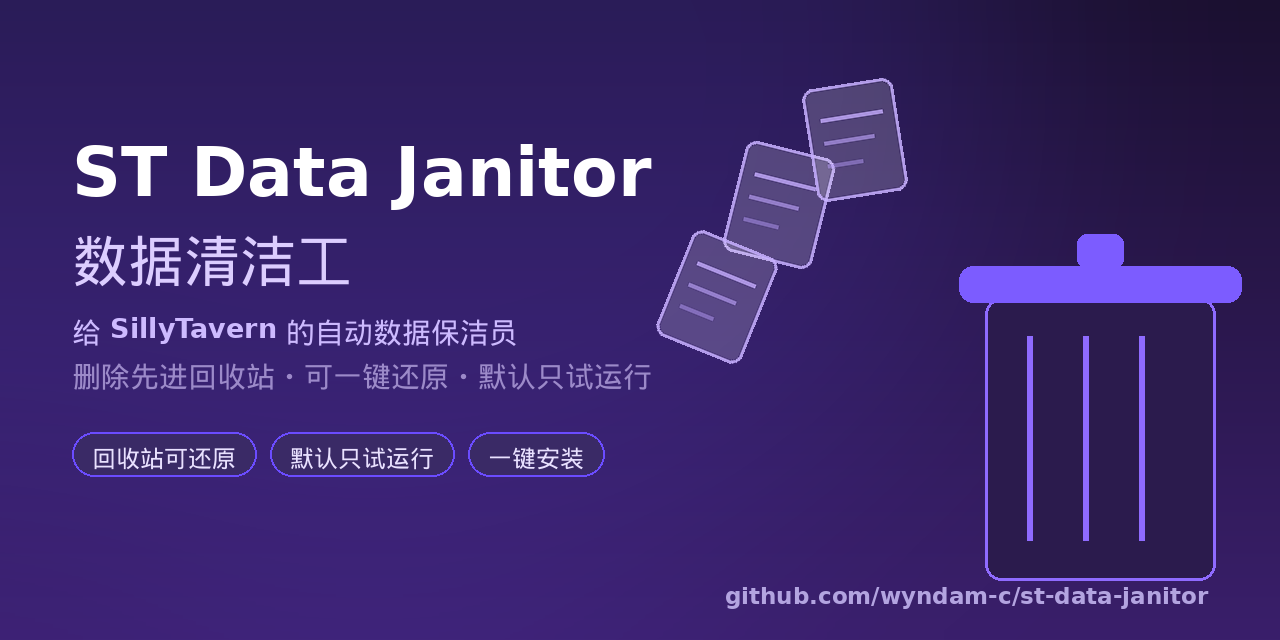
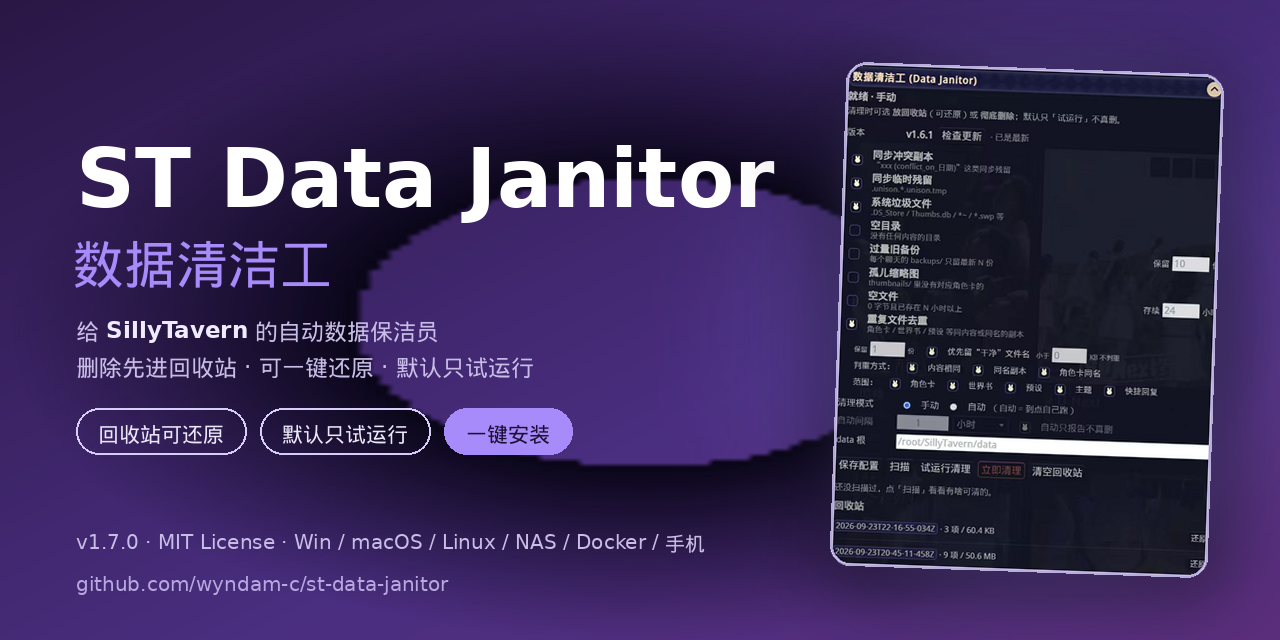
docs(assets): 重做 GitHub 链接卡片图（1280x640，真实面板截图）+ 留下生成脚本 tools/make-social-preview.py

diff --git a/tools/make-social-preview.py b/tools/make-social-preview.py
@@ -1,0 +1,196 @@
+#!/usr/bin/env python3
+# -*- coding: utf-8 -*-
+"""
+生成 GitHub「Social preview（链接卡片图）」：1280x640，深紫底 + 白色标题 + 真实面板截图。
+只需要 Pillow：  pip install pillow
+用法：  python3 tools/make-social-preview.py
+输出：  assets/social-1280x640.png
+
+⚠ 坑：DroidSansFallbackFull（中文字体）没有拉丁字形，直接拿它画英文会出豆腐块；
+   所以所有文字都走 auto_runs() 按「中文 / 拉丁」切段混排。
+"""
+import math
+import os
+import re
+
+from PIL import Image, ImageDraw, ImageFilter, ImageFont
+
+W, H = 1280, 640
+ROOT = os.path.dirname(os.path.dirname(os.path.abspath(__file__)))
+SHOT = os.path.join(ROOT, 'assets', 'screenshot-panel.jpg')
+OUT = os.path.join(ROOT, 'assets', 'social-1280x640.png')
+
+LATIN_BOLD = '/usr/share/fonts/truetype/dejavu/DejaVuSans-Bold.ttf'
+LATIN = '/usr/share/fonts/truetype/dejavu/DejaVuSans.ttf'
+CJK = '/usr/share/fonts/truetype/droid/DroidSansFallbackFull.ttf'
+
+VIOLET = (139, 123, 234)
+VIOLET_L = (167, 139, 250)
+DIM = (200, 189, 230)
+LIGHT = (236, 232, 250)
+LINK = (185, 167, 224)
+
+CJK_RE = re.compile(r'[\u2e80-\u9fff\u3000-\u303f\uff00-\uffef]')
+
+
+def is_cjk(ch):
+    return bool(CJK_RE.match(ch))
+
+
+def auto_runs(text):
+    """把字符串按「中文 / 拉丁」切成段，避免用中文字体画英文（会豆腐块）"""
+    runs, buf, cur = [], '', None
+    for ch in text:
+        k = is_cjk(ch)
+        if cur is None or k == cur:
+            buf += ch
+        else:
+            runs.append((buf, cur))
+            buf = ch
+        cur = k
+    if buf:
+        runs.append((buf, cur))
+    return runs
+
+
+def font(path, size):
+    return ImageFont.truetype(path, size)
+
+
+def mixed(d, xy, text, size, fill, latin_bold=False):
+    """混排绘制一段文字，返回结束时的 x"""
+    x, y = xy
+    lf = font(LATIN_BOLD if latin_bold else LATIN, size)
+    cf = font(CJK, size)
+    for part, cjk in auto_runs(text):
+        f = cf if cjk else lf
+        d.text((x, y), part, font=f, fill=fill)
+        x += d.textlength(part, font=f)
+    return x
+
+
+def mixed_width(d, text, size, latin_bold=False):
+    lf = font(LATIN_BOLD if latin_bold else LATIN, size)
+    cf = font(CJK, size)
+    return sum(d.textlength(p, font=(cf if c else lf)) for p, c in auto_runs(text))
+
+
+def lerp(a, b, t):
+    return tuple(round(a[i] + (b[i] - a[i]) * t) for i in range(len(a)))
+
+
+def bg_gradient():
+    """135° 对角渐变 #2A1745 → #4A2E80 → #5B2E7C（小图算完再放大，过渡更顺）"""
+    n = 256
+    small = Image.new('RGB', (n, n))
+    px = small.load()
+    c1, c2, c3 = (0x2A, 0x17, 0x45), (0x4A, 0x2E, 0x80), (0x5B, 0x2E, 0x7C)
+    for y in range(n):
+        for x in range(n):
+            t = (x + y) / (2 * (n - 1))
+            px[x, y] = lerp(c1, c2, t / 0.6) if t < 0.6 else lerp(c2, c3, (t - 0.6) / 0.4)
+    return small.resize((W, H), Image.BICUBIC)
+
+
+def radial(size, color, power=2.0, solid=0.0, scale=1.0):
+    """径向光斑（RGBA）"""
+    n = 128
+    img = Image.new('RGBA', (n, n), (0, 0, 0, 0))
+    px = img.load()
+    for y in range(n):
+        for x in range(n):
+            dx, dy = (x - n / 2) / (n / 2), (y - n / 2) / (n / 2)
+            d = min(1.0, math.hypot(dx, dy))
+            a = 0.0 if d <= solid else max(0.0, (1 - (d - solid) / (1 - solid))) ** power
+            px[x, y] = (color[0], color[1], color[2], round(255 * a * scale))
+    return img.resize(size, Image.BICUBIC)
+
+
+def main():
+    card = bg_gradient().convert('RGBA')
+
+    # 光晕：只堆在截图后面，别扫到左边文字区（否则文字对比度掉下来）
+    glow = radial((780, 780), VIOLET, power=1.5, scale=0.5)
+    card.alpha_composite(glow, (1030 - 390, 320 - 390))
+
+    # 暗角
+    card.alpha_composite(radial((W, H), (10, 6, 24), power=1.1, solid=0.45))
+
+    d = ImageDraw.Draw(card)
+    x = 76
+
+    # ── 左侧文字 ─────────────────────────────────────────────
+    d.text((x, 130), 'ST Data Janitor', font=font(LATIN_BOLD, 82), fill=(255, 255, 255))
+    d.text((x - 4, 228), '数据清洁工', font=font(CJK, 52), fill=VIOLET_L)
+
+    y = 316
+    end = mixed(d, (x, y), '给 ', 23, DIM)
+    end = mixed(d, (end, y), 'SillyTavern', 23, (240, 236, 253), latin_bold=True)
+    mixed(d, (end, y), ' 的自动数据保洁员', 23, DIM)
+
+    mixed(d, (x, 352), '删除先进回收站 · 可一键还原 · 默认只试运行', 23, DIM)
+
+    # 胶囊标签（最后一个实底，当 CTA）
+    py, ph = 408, 46
+    px = x
+    for i, label in enumerate(('回收站可还原', '默认只试运行', '一键安装')):
+        f = font(CJK, 21)
+        tw = d.textlength(label, font=f)
+        solid = i == 2
+        d.rounded_rectangle([px, py, px + tw + 44, py + ph], radius=ph // 2,
+                            fill=VIOLET_L if solid else None,
+                            outline=None if solid else (214, 206, 248, 190), width=2)
+        d.text((px + 22, py + 12), label, font=f, fill=(28, 17, 51) if solid else LIGHT)
+        px += tw + 44 + 14
+
+    # 底部两行（左下，离截图留足距离）
+    mixed(d, (x, 530), 'v1.7.0 · MIT License · Win / macOS / Linux / NAS / Docker / 手机',
+          20, DIM)
+    d.text((x, 572), 'github.com/wyndam-c/st-data-janitor', font=font(LATIN, 20), fill=LINK)
+
+    # ── 右侧：真实面板截图 ───────────────────────────────────
+    shot = Image.open(SHOT).convert('RGB')
+    shot = shot.crop((0, 0, shot.width - 10, shot.height))    # 裁掉右边的滚动条细线
+    h = 500
+    w = round(shot.width * h / shot.height)                    # ≈373
+    shot = shot.resize((w, h), Image.LANCZOS)
+
+    mask = Image.new('L', (w, h), 0)
+    ImageDraw.Draw(mask).rounded_rectangle([0, 0, w - 1, h - 1], radius=18, fill=255)
+
+    phone = Image.new('RGBA', (w + 4, h + 4), (0, 0, 0, 0))
+    phone.paste(shot, (2, 2), mask)
+    rr = Image.new('L', (w + 4, h + 4), 0)
+    ImageDraw.Draw(rr).rounded_rectangle([0, 0, w + 3, h + 3], radius=20, fill=255)
+    phone.putalpha(rr)
+    ImageDraw.Draw(phone).rounded_rectangle([0, 0, w + 3, h + 3], radius=20,
+                                           outline=(208, 199, 246, 215), width=3)
+
+    # 外发光 + 投影
+    halo = Image.new('RGBA', (w + 300, h + 300), (0, 0, 0, 0))
+    hd = ImageDraw.Draw(halo)
+    hd.rounded_rectangle([150, 150, 150 + w + 3, 150 + h + 3], radius=26,
+                         fill=(139, 123, 234, 120))
+    halo = halo.filter(ImageFilter.GaussianBlur(48))
+
+    shadow = Image.new('RGBA', (w + 300, h + 300), (0, 0, 0, 0))
+    ImageDraw.Draw(shadow).rounded_rectangle([150, 162, 150 + w + 3, 162 + h + 3],
+                                             radius=26, fill=(0, 0, 0, 150))
+    shadow = shadow.filter(ImageFilter.GaussianBlur(34))
+
+    cx, cy = 1027, 320
+    card.alpha_composite(shadow, (cx - shadow.width // 2, cy - shadow.height // 2))
+    card.alpha_composite(halo, (cx - halo.width // 2, cy - halo.height // 2))
+    phone = phone.rotate(-2, resample=Image.BICUBIC, expand=True)
+    card.alpha_composite(phone, (cx - phone.width // 2, cy - phone.height // 2))
+
+    out = card.convert('RGB')
+    out.save(OUT, optimize=True)
+    kb = os.path.getsize(OUT) / 1024
+    print('已生成 %s  %s  %.1f KB' % (OUT, out.size, kb))
+    if kb > 900:
+        print('⚠ 超过 GitHub 的 1MB 限制，得改用 JPEG')
+
+
+if __name__ == '__main__':
+    main()

diff --git a/CHANGELOG.md b/CHANGELOG.md
@@ -11,6 +11,7 @@
   **保活与开机自启**（`termux-wake-lock` / Termux:Boot / 常用别名）、更新与卸载、以及手机特有的坑（`/sdcard` 别放酒馆、
   32 位机报 `Unsupported platform: android arm LEtime-web` 要 `pkg install esbuild`、存储紧张推荐改的 `config.yaml` 几项）。
 - 🖼 README 的面板实拍图换成新截图（手机浏览器里的真实面板），并加 `?v=2` 破缓存。
+- 🎴 GitHub **链接卡片图（Social preview）** 重新制作：1280×640，深紫底 + 标题 + 真实面板截图，生成脚本留在 `tools/make-social-preview.py`（可复现，改字改版式重跑即可）。
 
 ## [1.7.0] — 2026-09-24
 
